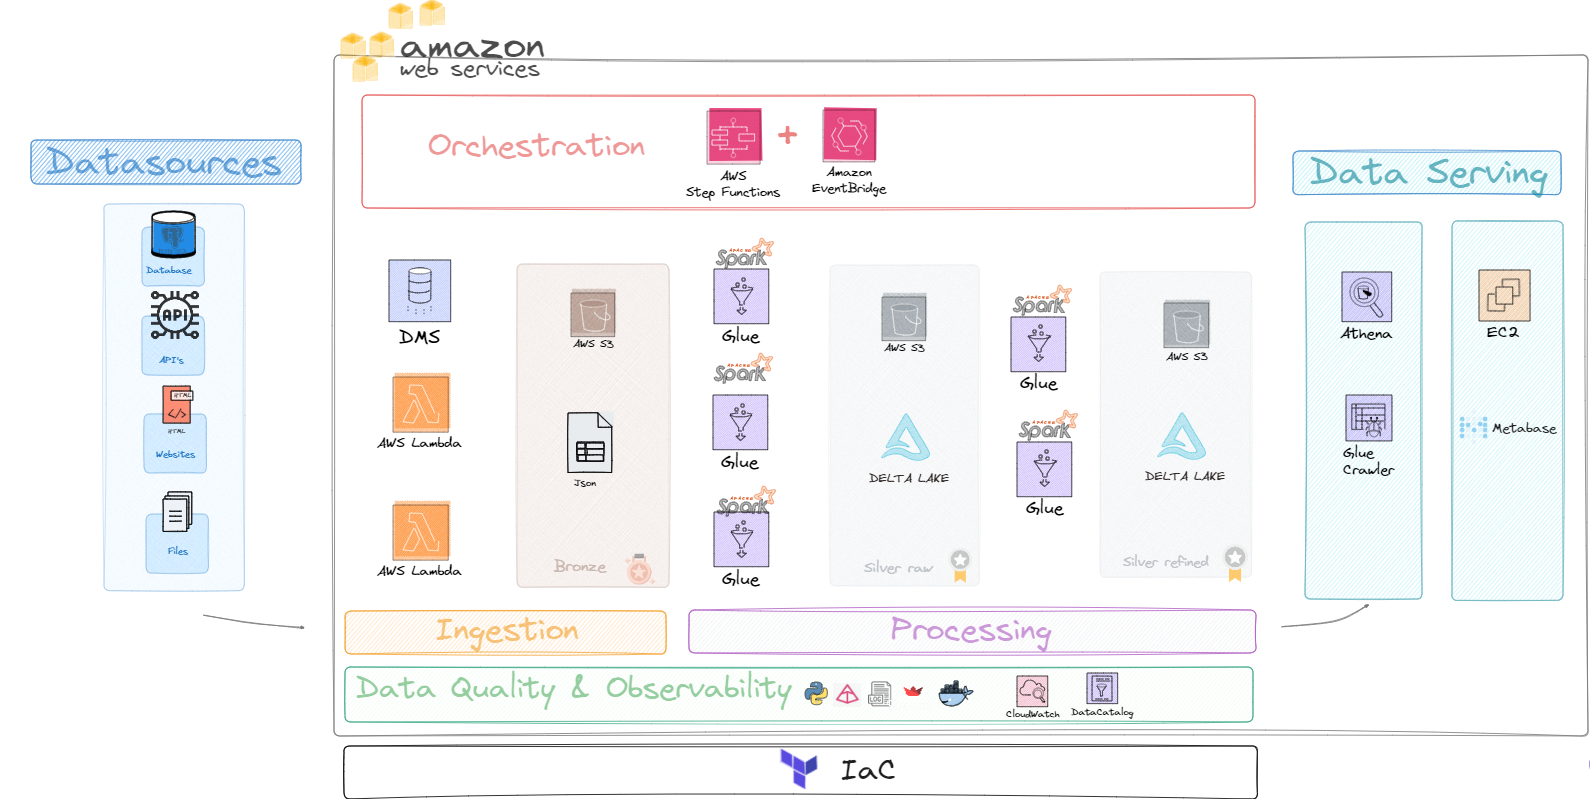
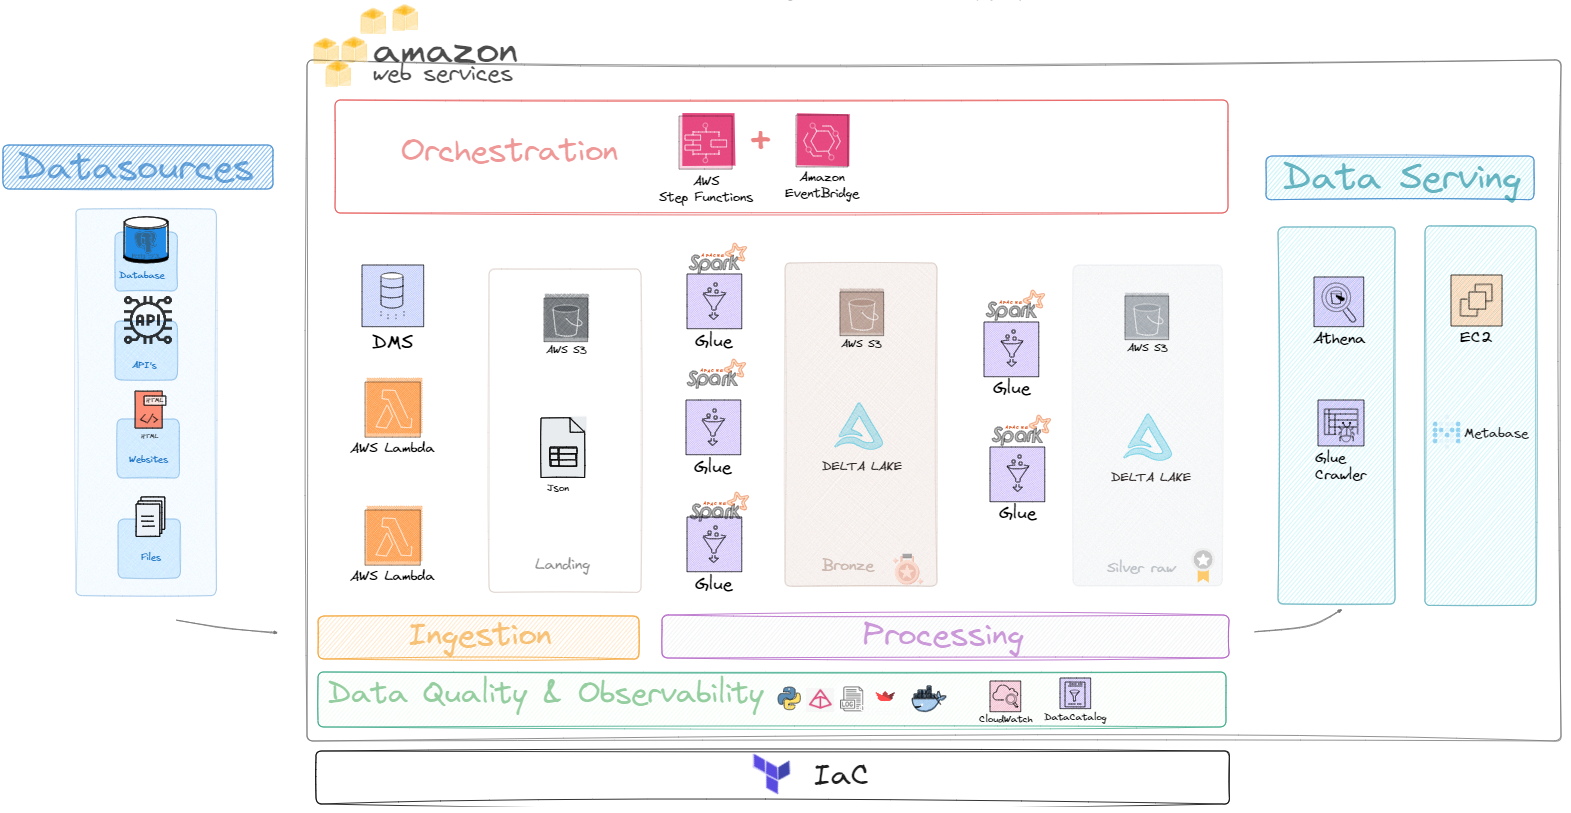
doc_fixstorage

diff --git a/docs/p2_solution.md b/docs/p2_solution.md
@@ -78,9 +78,9 @@ Five jobs were developed in Glue:
 
 Data storage is a critical component at nearly every stage of the project, implemented using different object stores (AWS S3 buckets) according to the stage, following the best practices of Medallion architecture type. Data were segregated into three layers:
 
-* **Bronze** - Stores the ingested data in JSON format.
-* **Silver Raw** - Stores data without duplicates in delta format.
-* **Silver Refined** - Stores data with joins, calculated columns, and business-specific columns.
+* **Landing** - Stores the ingested data in JSON format.
+* **Bronze** - Stores data without duplicates in delta format.
+* **Silver** - Stores data with joins, calculated columns, and business-specific columns.
 
 > 🔎 **NOTE**: A Gold layer was not constructed because such layers generally require a project to be at a more advanced stage. Often, new projects are fed by tables from the Silver zone - trusted or refined. Additionally, the project development time was short, and there wasn’t enough time to consolidate a modeling strategy.
 
